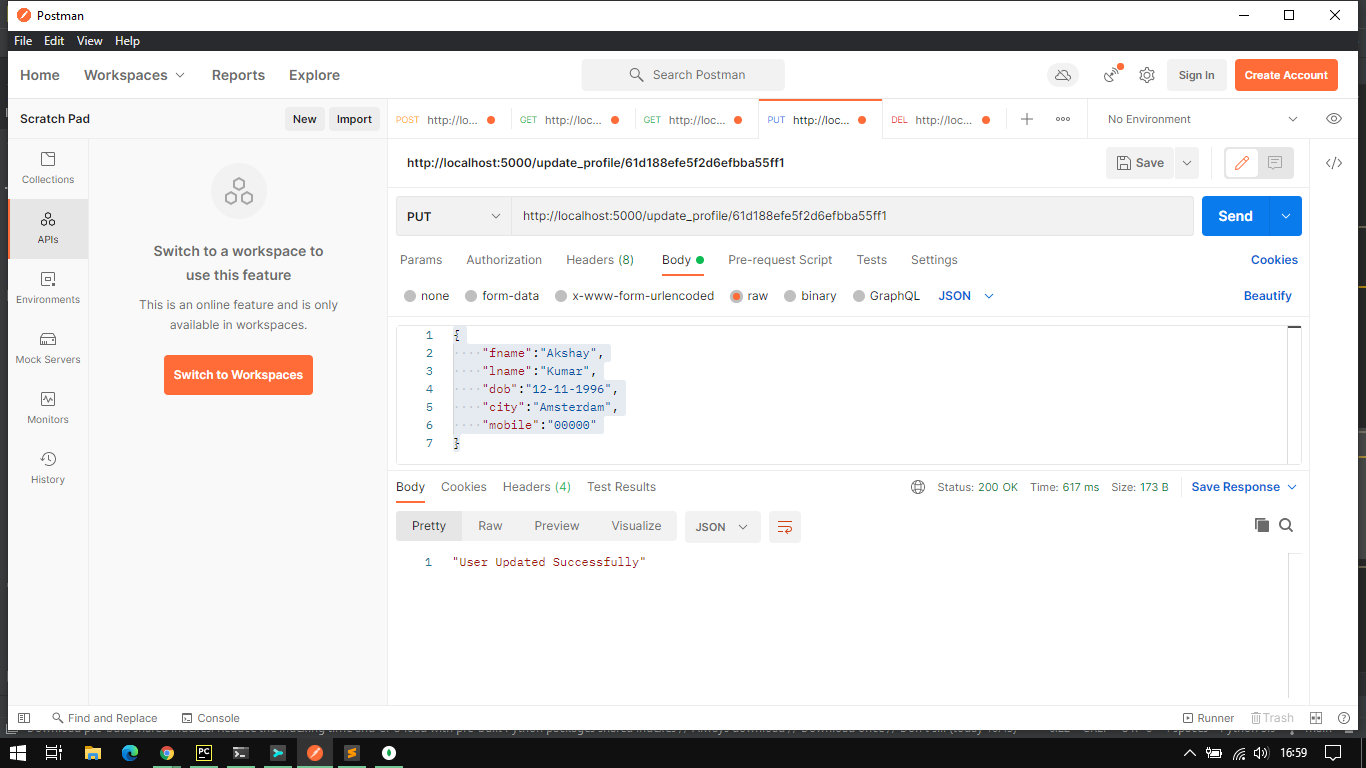
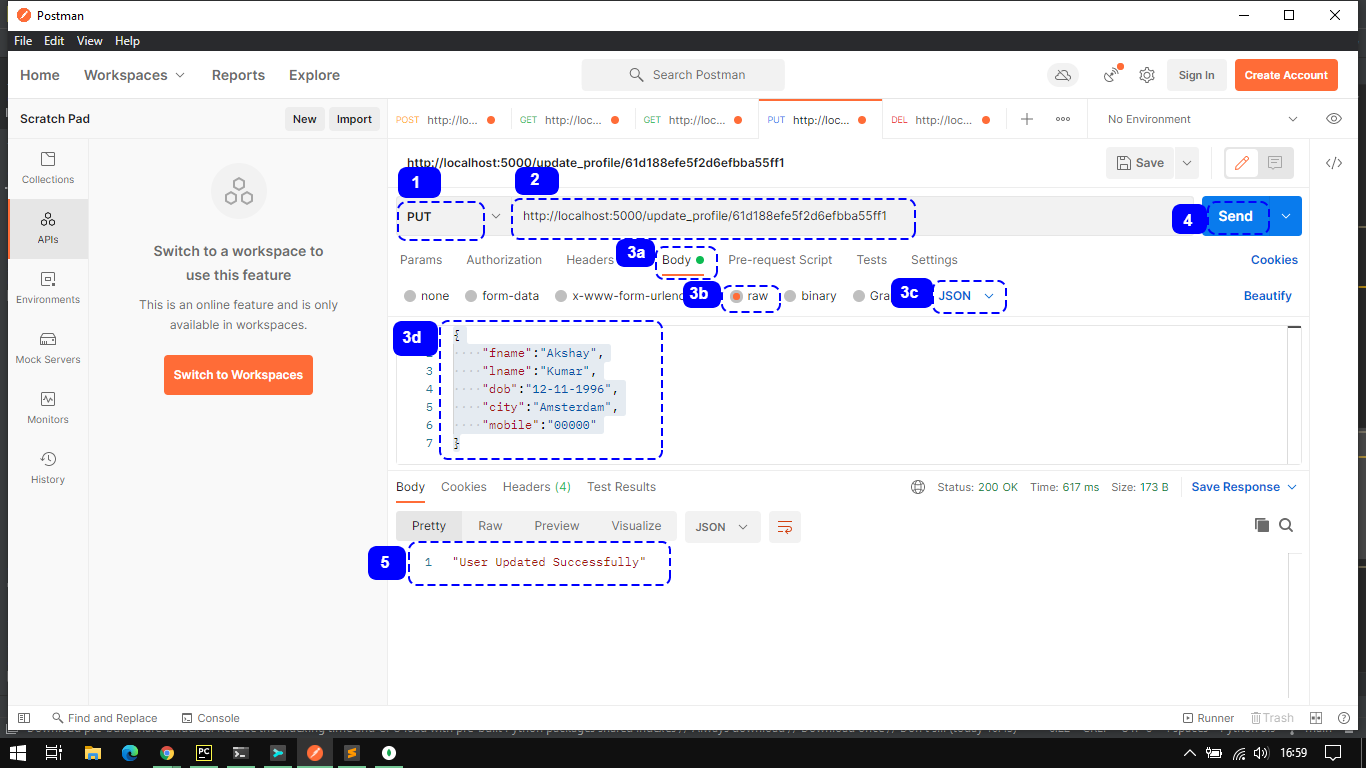
Added: Detailed Steps for Testing the API

diff --git a/README.md b/README.md
@@ -19,16 +19,58 @@ number).
 	- API tested using Postman API Testing Tool
 
 ## How To Test the API
-- Using Postman to Add New User Record
-  ![AddProfile](PostmanTestingImages/AddProfile.png)
-- Using Postman to View All User Records
-  ![ViewAllProfiles](PostmanTestingImages/ViewAllProfiles.png)
-- Using Postman to View Single User Record
+### Launch the API Server
+1. Using a shell or command prompt window, change directory to the root of this repository, wherever cloned
+2. Use the command `python app.py`
+
+<p align="center">
+    OR
+</p>
+
+1. In a shell or command prompt window, directly enter the command `python <path to the repository folder/app.py>`
+
+*__Note:__ Install mentioned dependencies and the Launch the API Server, also Launch only one instance and make sure its running before testing using Postman or any other API client*
+
+### Using Postman to Add New User Record
+  ![AddProfile](PostmanTestingImages/AddProfile.png)  
+  1. Select Request Method &rarr; `POST`
+  2. Type in URL &rarr; `http://localhost:5000/add_profile`
+  3. Select
+     1. `body` section
+     2. `raw` data type
+     3. `JSON` mimetype
+     4. Now type in the details in **JSON format** as shown in the image above
+  4. `Send` Request
+  5. Response will be shown here
+### Using Postman to View All User Records
+  ![ViewAllProfiles](PostmanTestingImages/ViewAllProfiles.png)  
+  1. Select Request Method &rarr; `GET`
+  2. Type in URL &rarr; `http://localhost:5000/view_profiles`
+  3. `Send` Request
+  4. Response will be shown here
+### Using Postman to View Single User Record
   ![ViewOneProfile](PostmanTestingImages/ViewOneProfile.png)
-- Using Postman to Update Single User Record
-  ![UpdateOneProfile](PostmanTestingImages/UpdateOneProfile.png)
-- Using Postman to Delete Single User Record
-  ![DeleteOneProfile](PostmanTestingImages/DeleteOneProfile.png)
+  1. Select Request Method &rarr; `GET`
+  2. Type in URL &rarr; `http://localhost:5000/view_by_id/record_id` where `record_id` can be taken by viewing all user records
+  3. `Send` Request
+  4. Response will be shown here
+### Using Postman to Update Single User Record
+  ![UpdateOneProfile](PostmanTestingImages/UpdateOneProfile.png)  
+  1. Select Request Method &rarr; `PUT`
+  2. Type in URL &rarr; `http://localhost:5000/update_profile/record_id` where `record_id` can be taken by viewing all user records
+  3. Select
+     1. `body` section
+     2. `raw` data type
+     3. `JSON` mimetype
+     4. Now type in the details in **JSON format** as shown in the image above
+  4. `Send` Request
+  5. Response will be shown here
+### Using Postman to Delete Single User Record
+  ![DeleteOneProfile](PostmanTestingImages/DeleteOneProfile.png)  
+  1. Select Request Method &rarr; `DELETE`
+  2. Type in URL &rarr; `http://localhost:5000/delete_profile/record_id` where `record_id` can be taken by viewing all user records
+  3. `Send` Request
+  4. Response will be shown here
 
 *__Note:__ flask app runs on port 5000 by default but port can be set at `last line` in app.py as app.run(host=HOST, port=PORT)*
 
